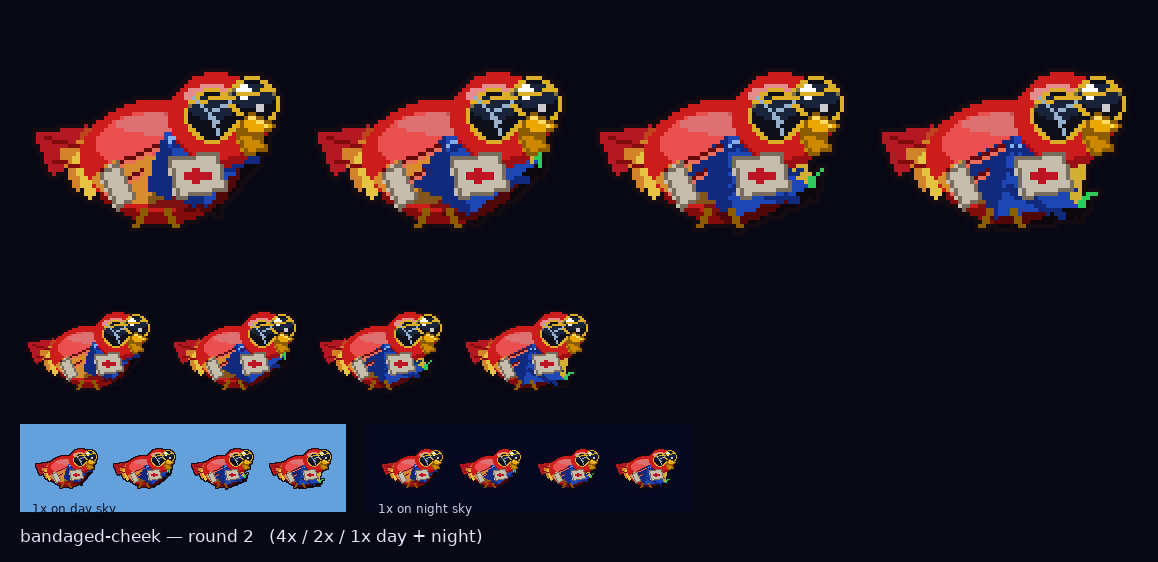
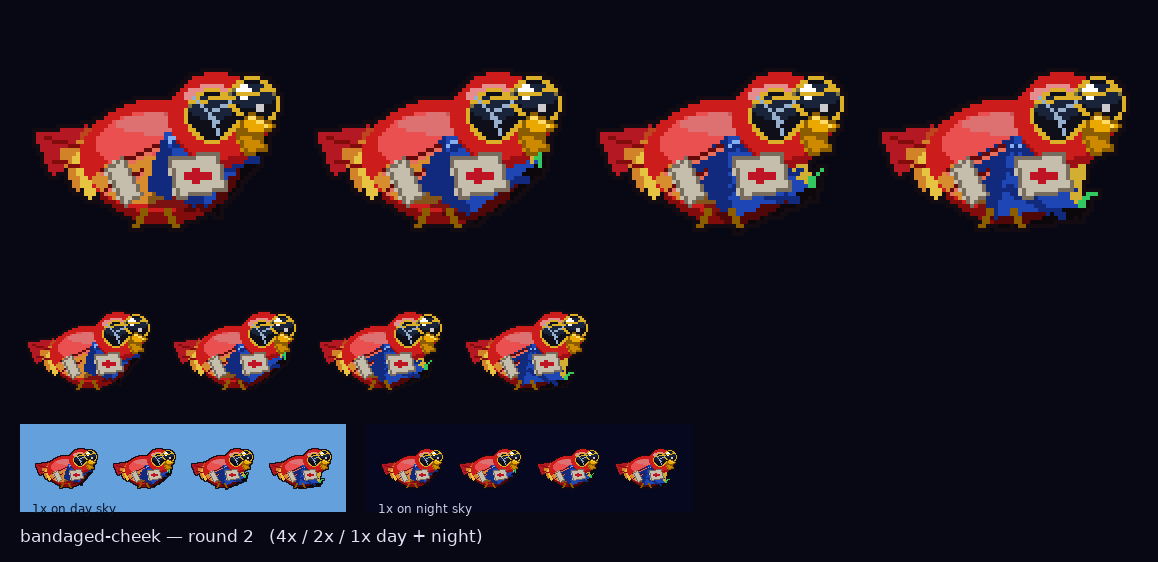
hurt-parrot: bandaged-cheek Round 2 final
Claude-Session: https://claude.ai/code/session_01SYxW5bMXxMEcZRx1arfvCN

diff --git a/docs/hurt-parrot-v5/bandaged-cheek/design.py b/docs/hurt-parrot-v5/bandaged-cheek/design.py
@@ -7,9 +7,9 @@ forehead. A forehead strip competes with the shades for the one bright focal
 point on the head, and both live in the same 10 px band; putting the gauze on
 the jaw/chin instead gives the white its own territory below the lenses, and
 the pad crossing the head/body seam reads as a wrap that was tied on rather
-than a sticker floating on the skull. Two small strips on the body carry the
-patched-up story down into the plumage, taped over the tail of a claw-cut so the
-wound visibly runs out from under it.
+than a sticker floating on the skull. A single strip on the body carries the
+patched-up story down into the plumage, taped across a claw-cut so the wound
+visibly runs out from under both ends of it.
 """
 import math
 import os, sys
@@ -405,7 +405,7 @@ if __name__ == "__main__":
     scratch_min = min(_count_exact(f, SCRATCH_D) + _count_exact(f, SCRATCH_HL)
                       for f in raw)
     luma = _mean_luma(raw[0])
-    margin = _cross_margin(raw[0])
+    cross_margin = _cross_margin(raw[0])
     left_px, right_px = _scratch_spans_tape()
 
     # Summed across the jaw pad and the body strip: the threshold is about the
@@ -415,7 +415,8 @@ if __name__ == "__main__":
     assert scratch_min >= 25, (f"Scratches fade: min {scratch_min} px on worst "
                                f"frame (need >=25)")
     assert luma >= 95, f"Body too dark: mean luma {luma:.1f} (need >=95)"
-    assert margin >= 2, f"Cross crowds the pad edge: {margin} px gauze (need >=2)"
+    assert cross_margin >= 2, (f"Cross crowds the pad edge: {cross_margin} px "
+                               f"gauze (need >=2)")
     assert left_px and right_px, (f"Rake does not emerge past the tape: "
                                   f"{left_px} left / {right_px} right")
 
@@ -467,4 +468,4 @@ if __name__ == "__main__":
     print(f"Saved {canvas_w}x{canvas_h} -> {out_path}")
     print(f"gauze={gauze_count}  cross={cross_count}  "
           f"scratch_min={scratch_min}  luma={luma:.1f}  "
-          f"cross_margin={margin}  rake L/R={left_px}/{right_px}")
+          f"cross_margin={cross_margin}  rake L/R={left_px}/{right_px}")
